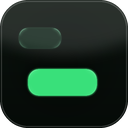
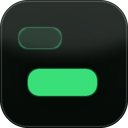
터미널 글로우의 흰 테두리를 모니터 창틀 빛으로 바꾸고 0.31.1 로 올린다
기본 글로우가 두르는 흰 쪽 띠와 흰 반사선이 검은 초록 칸에서 회백색 테두리로 떠서
광택 스티커처럼 보였다. glow_edge='phosphor' 를 적은 테마는 어두운 칸에 포인트색 가는 선과
안쪽 번짐을 두르고 바깥 번짐도 포인트색으로 하며, 밝은 칸은 가장자리를 칠하지 않는다.

glow_of() 가 glow_edge 를 적은 테마만 칸을 더 넘기므로 다른 142개 테마는 해시로 대조해 버전 줄 말고 같은 것을 확인했다.

diff --git a/tools/gen.py b/tools/gen.py
@@ -139,6 +139,35 @@ SAT_LOSS = 0.38
 SPEC_TINT, SPEC_ALPHA = 0.60, 0.35
 
 
+def _phosphor_color(base, accent):
+    """모니터 글자처럼 빛나는 말풍선의 빛 색. 어두운 칸은 제 색으로는 빛이 안 보여서 포인트색을 쓴다."""
+    r, g, b = rgb(base)
+    return accent if (r * 299 + g * 587 + b * 114) / 1000 < 90 else base
+
+
+def _phosphor_inner(out, mask, w, h, glow, colors):
+    """glow_edge='phosphor' 의 안쪽 빛. 옛 모니터 화면 속 창틀처럼 빛난다.
+
+    기본 글로우는 가장자리에 흰 쪽으로 밝힌 띠와 흰 반사선을 두른다. 터미널의 검은 초록 칸에서는
+    그게 빛이 아니라 회백색 테두리로 떠서 광택 스티커처럼 싸구려로 보였다. 모니터에는 광택이 없다 —
+    어두운 칸은 형광색 가는 선과 안쪽으로 옅게 번지는 빛만 두고, 밝은 칸은 몸통이 곧 빛이라
+    가장자리를 따로 칠하지 않는다. 사방이 고르게 빛난다 — 화면 속 빛은 위에서 들지 않는다.
+    """
+    base = mid(colors[0], colors[1]) if glow[0] == 'auto' else glow[0]
+    color = _phosphor_color(base, glow[3])
+    if color == base:
+        return
+    line = ImageChops.subtract(
+        mask, mask.filter(ImageFilter.GaussianBlur(max(1.0, min(w, h) * 0.02))))
+    wide = ImageChops.subtract(
+        mask, mask.filter(ImageFilter.GaussianBlur(max(3.0, min(w, h) * 0.07))))
+    a = ImageChops.add(line.point(lambda v: min(255, int(v * 1.6))),
+                       wide.point(lambda v: int(v * 0.35)))
+    lay = Image.new('RGBA', (w, h), rgb(color) + (255,))
+    lay.putalpha(ImageChops.multiply(a, mask))
+    out.alpha_composite(lay)
+
+
 def bubble_box(w, h, colors, radius, style='solid', alpha=255, glow=None, pad=0,
                flat=False, rim=None, frost=0.0):
     """말풍선 하나를 정확히 w x h 로 그린다. 세로 그라데이션.
@@ -234,7 +263,11 @@ def bubble_box(w, h, colors, radius, style='solid', alpha=255, glow=None, pad=0,
                 grain.point(lambda v: int(max(0, 128 - v) * 2.2)), mask))
             out.alpha_composite(dk)
 
-    if glow:
+    # 글로우 가장자리 모양. glow_of() 가 glow_edge 를 적은 테마만 네 칸으로 넘긴다
+    edge = glow[2] if glow and len(glow) > 2 else 'rim'
+    if glow and edge == 'phosphor':
+        _phosphor_inner(out, mask, w, h, glow, colors)
+    elif glow:
         gc = glow[0]
         ga = glow[1]
         base = mid(colors[0], colors[1]) if gc == 'auto' else gc
@@ -312,6 +345,8 @@ def bubble_box(w, h, colors, radius, style='solid', alpha=255, glow=None, pad=0,
     ga = glow[1]
     gc = glow[0]
     base = mid(colors[0], colors[1]) if gc == 'auto' else gc
+    if edge == 'phosphor':
+        base = _phosphor_color(base, glow[3])
     # 밝은 곳일수록 색이 옅어진다. 실제 빛이 그렇고, 단색으로 두면 색종이처럼 보인다
     core = acc.point(lambda v: int(255 * (v / 255.0) ** 2.2))
     halo = Image.new('RGBA', (gw, gh), rgb(base) + (255,))
@@ -343,6 +378,10 @@ def glow_of(t):
     if not g:
         return None, 0
     color, strength, pad = g
+    if t.get('glow_edge'):
+        # 가장자리 빛 모양을 따로 정한 테마만 모양과 포인트색을 더 얹는다. 나머지는 옛 두 칸
+        # 그대로 넘겨서 이미 나간 글로우 테마의 그림이 바뀌지 않는다
+        return (color, strength, t['glow_edge'], t['accent']), pad
     return (color, strength), pad
 
 

diff --git a/tools/themes.py b/tools/themes.py
@@ -40,7 +40,7 @@ chat_bg
 
 import re
 
-VERSION = '0.31'
+VERSION = '0.31.1'
 
 THEMES = [
     dict(
@@ -1560,7 +1560,10 @@ THEMES += quartet(
          accent='#39E07A', accent_dim='#23B05E', on_accent='#03170A',
          send=('#39E07A', '#39E07A'), send_alt=('#FFB000', '#FFB000'),
          recv=('#11251A', '#11251A'), recv_alt=('#1E4A33', '#1E4A33'),
-         send_text='#03170A', recv_text='#D8F5E1'),
+         send_text='#03170A', recv_text='#D8F5E1',
+         # 기본 글로우의 흰 테두리와 반사선이 검은 초록 칸에서 광택 스티커로 읽혀서
+         # 모니터 창틀처럼 형광 초록으로 빛나게 한다(0.31.1)
+         glow_edge='phosphor'),
     dict(chat_bg=('terminal', '#07100A', '#0B1A10', dict(dim=0.52)),
          main_bg=('terminal', '#07100A', '#0A160E', dict(dim=0.58)),
          passcode_bg=('terminal', '#08120B', '#0E2014', dict(cell=0.028, dim=0.1))),

diff --git a/CLAUDE.md b/CLAUDE.md
@@ -118,6 +118,14 @@ release.ps1         → 태그 + 릴리스 자산 첨부
 **빛의 출처가 따로 있으면 그 색을 준다**(`char_glow_color`). 기본은 말풍선 색이라 갈색 팻말에서는
 갈색 빛이 번져 얼룩이 됐다. 모닥불 주황을 주니 불빛 받은 나무 모서리로 읽혔다.
 
+**화면 속 빛에는 광택을 두르지 않는다**(`glow_edge='phosphor'`). 옛 글로우(`quartet()` 의 네 벌 중
+글로우 둘)는 가장자리에 흰 쪽으로 밝힌 띠와 흰 반사선을 두른다. 터미널의 검은 초록 칸에서는 그게
+빛이 아니라 회백색 테두리로 떠서 사용자가 "너무 짜친다" 고 했다. 모니터에는 광택이 없다 — 어두운 칸은
+포인트색 가는 선과 안쪽으로 옅게 번지는 빛을 두르고 바깥 번짐도 포인트색으로 하고, 밝은 칸은 몸통이
+곧 빛이라 가장자리를 칠하지 않는다. `glow_of()` 가 `glow_edge` 를 적은 테마만 칸을 더 얹어 넘기므로
+다른 옛 글로우 테마 37벌은 그림이 그대로다(0.31.1 에서 해시로 확인). 같은 흰 테두리가 다른 계열에서도
+거슬리면 그 계열에만 `glow_edge` 를 적는다.
+
 ### 글로우 모양
 
 **글로우는 손으로 짜지 않고 `tools/glow.py` 의 사전에서 이름으로 고른다.** 테마마다 짜면 계열마다
